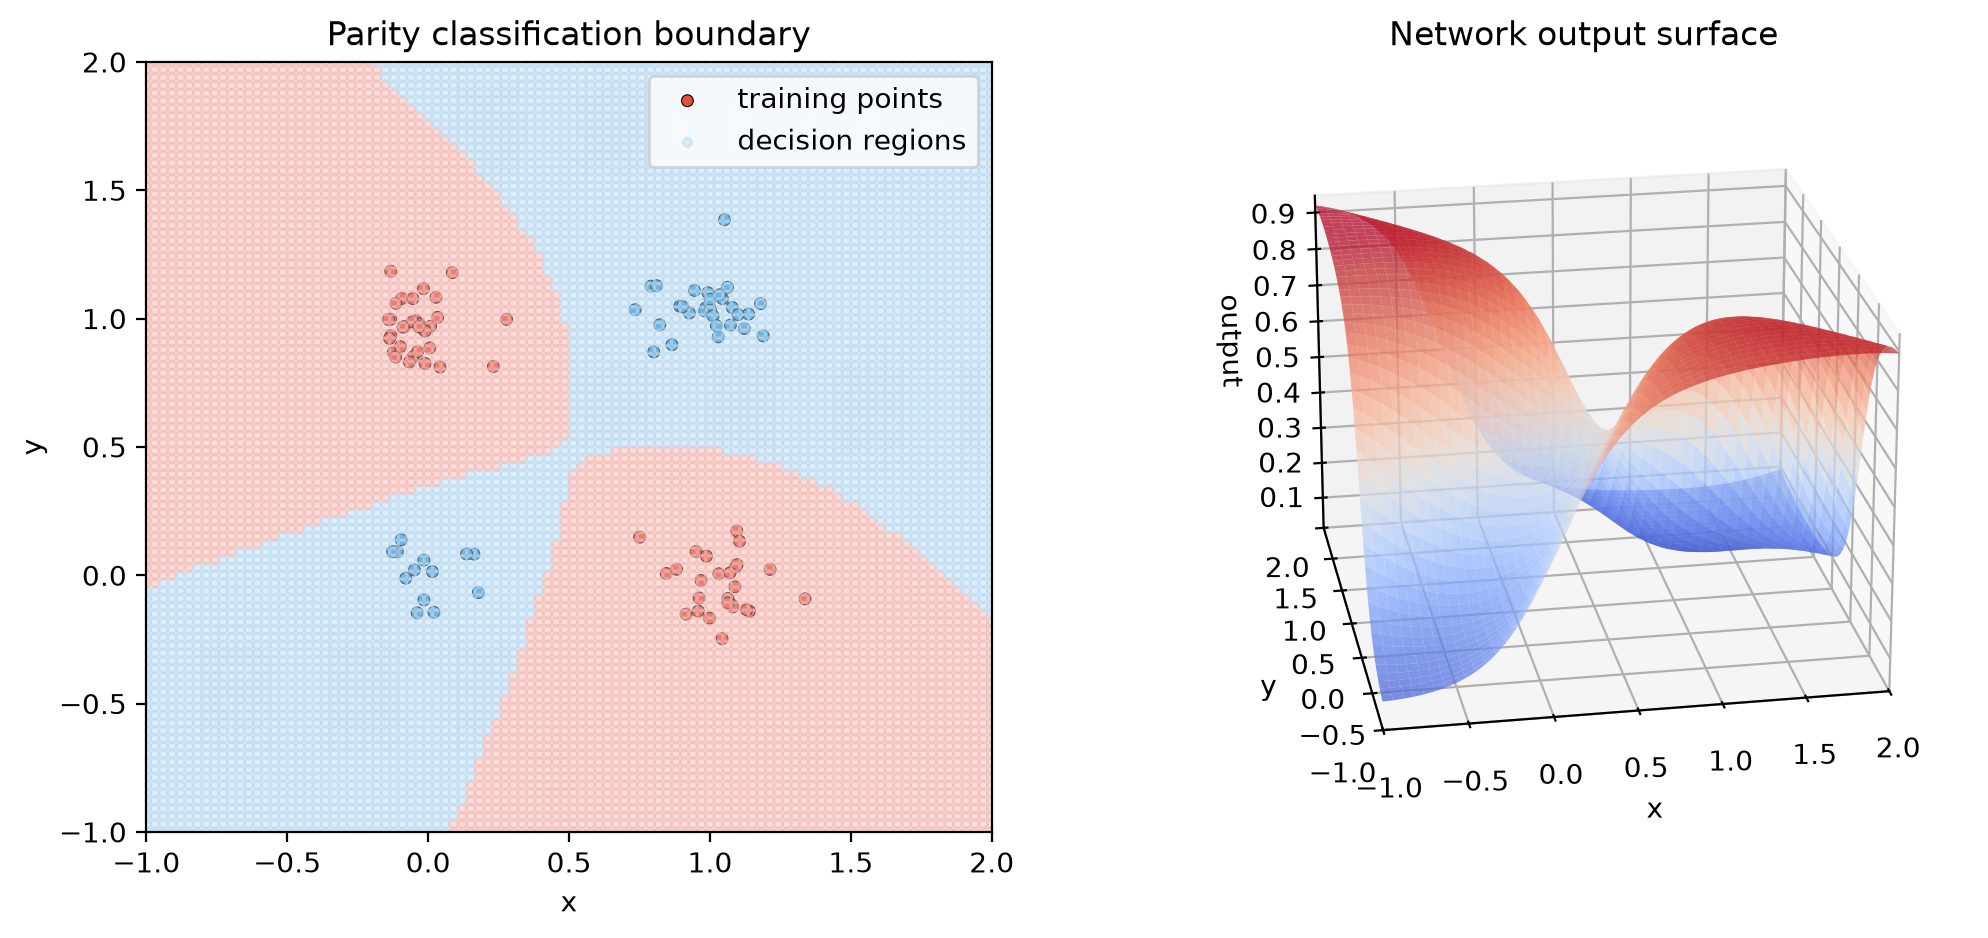
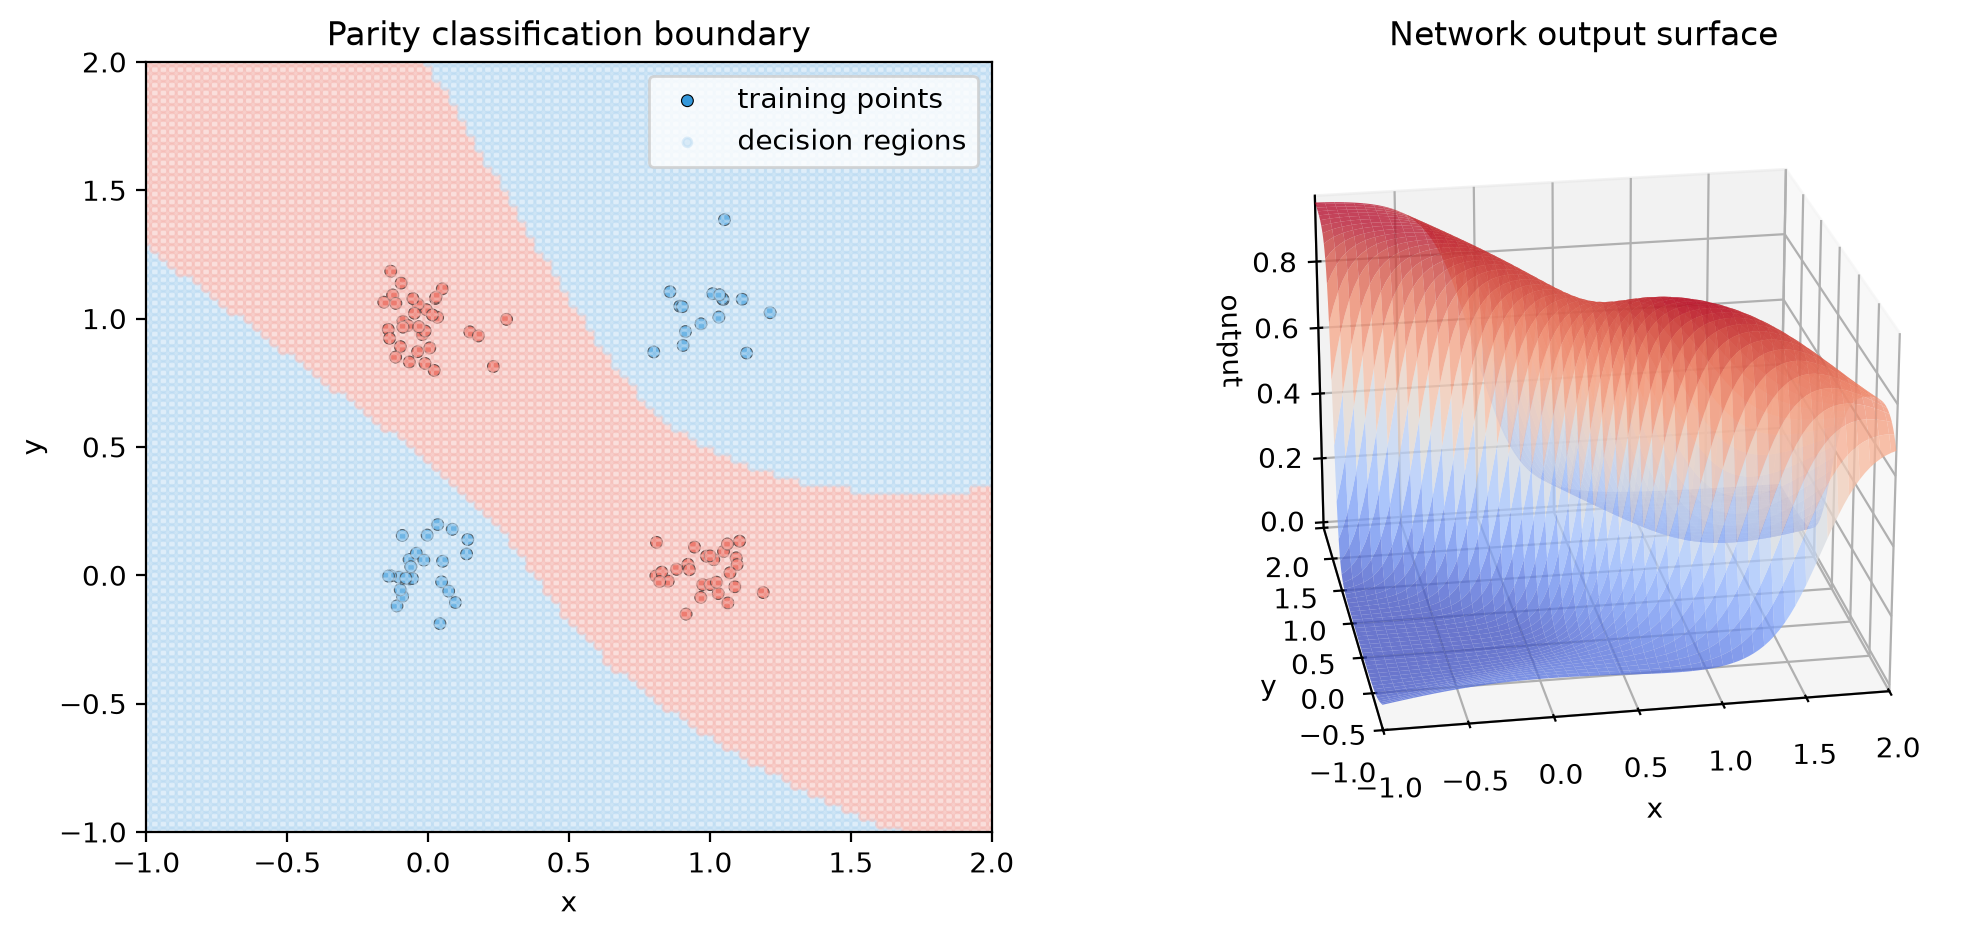
Updated readme

diff --git a/README.md b/README.md
@@ -38,6 +38,7 @@ That makes it useful for understanding the mechanics behind modern ML libraries 
 - `examples/` — runnable example scripts
   - `regression.py` — fits a function and saves plotting output
   - `parity.py` — trains a noisy parity-style classifier
+  - `digits.py` — classifies images from scikit-learn's 8x8 handwritten-digits dataset
   - `plot_helpers.py` — plotting utilities for the examples
 - `tests/` — regression tests covering validation, training, and API behavior
 - `outputs/graphs/` — generated plots from example runs
@@ -62,6 +63,8 @@ Dependencies:
 
 - `numpy`
 - `matplotlib`
+
+The digits example additionally requires the optional `scikit-learn` dependency installed with `.[examples]` above.
 
 ## Quick start
 
@@ -126,6 +129,17 @@ A few implementation details are worth noting:
 - Each target sample must match the output-layer width.
 - By default, the loss derivative is defined as `prediction - target`.
 
+Networks initialize weights with Xavier initialization by default, which scales
+random weights according to the sizes of the connected layers and sets biases to
+zero. Select another scheme with the `weight_initialization` argument:
+
+- `"xavier"` — uniform, zero-centered weights; the default and a suitable choice for sigmoid or tanh activations.
+- `"he"` — normally distributed weights; commonly used with ReLU-style activations.
+- `"uniform"` — legacy weights sampled uniformly from 0 to 1, including biases.
+
+The network does not infer an initializer from activation functions, so choose
+the scheme that suits the activations in your model.
+
 ## Example scripts
 
 From the repository root, run:
@@ -133,13 +147,25 @@ From the repository root, run:
 ```bash
 python examples/regression.py
 python examples/parity.py
+python examples/digits.py
 ```
+
+The digits example requires the optional dependency installed as shown above.
+It uses scikit-learn's built-in handwritten-digits dataset: 1,797 flattened 8x8
+images, with pixel values from 0 to 16 and labels from 0 to 9. This is a small
+digits dataset, not the full MNIST dataset. Pixel values are scaled to [0, 1],
+then a stratified 80/20 train/test split is used. The script prints accuracy on
+the held-out test split; `--seed` defaults to 42 for a reproducible split and
+training run. `--epochs` and `--learning-rate` can be used to adjust training.
+With the default settings and seed 42, the example achieved **98.06% accuracy**
+on the 360-image test split. This is a single holdout result, not a
+cross-validation score.
 
 The example scripts generate plots in `outputs/graphs/`:
 
 - `regression.py` trains a network to approximate a target function.
 - `parity.py` trains a noisy parity-style classifier and visualizes the decision boundary.
-- `digits.py` trains a network to classify the 8x8 handwritten digits dataset and reports held-out accuracy.
+- `digits.py` trains a network to classify the 8x8 handwritten-digits dataset and reports held-out accuracy.
 
 ## Featured outputs
 
